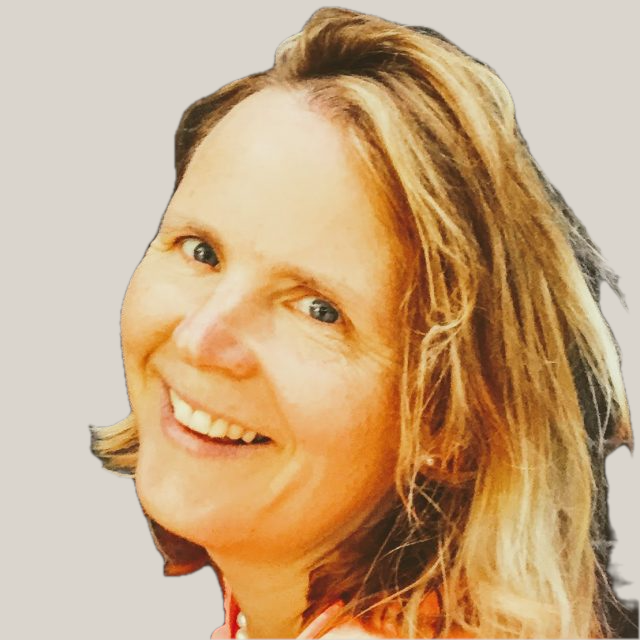
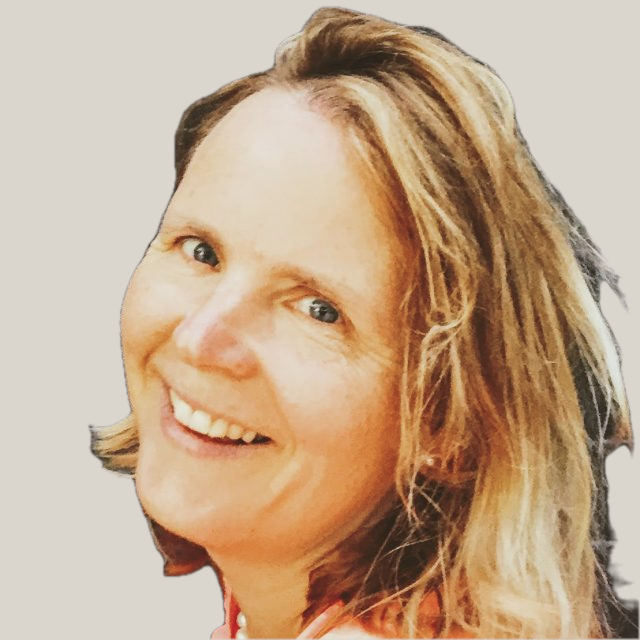
Style circular Board portraits and feature the Chair and Patron

diff --git a/board-portraits/index.html b/board-portraits/index.html
@@ -9,28 +9,47 @@
   <style>
     .portrait-grid {
       display: grid;
-      grid-template-columns: repeat(auto-fit, minmax(min(100%, 245px), 1fr));
-      gap: clamp(16px, 3vw, 30px);
-      max-width: 980px;
+      grid-template-columns: repeat(auto-fit, minmax(min(100%, 225px), 1fr));
+      gap: clamp(20px, 4vw, 44px);
+      text-align: center;
     }
-    .portrait-grid figure {
-      margin: 0;
-      border: 1px solid var(--crbf-panel-border);
-      border-radius: 6px;
-      overflow: hidden;
-      background: white;
+    .portrait-featured {
+      justify-content: center;
+      grid-template-columns: repeat(auto-fit, minmax(min(100%, 225px), 310px));
+      padding-bottom: clamp(26px, 4vw, 50px);
+      margin-bottom: clamp(26px, 4vw, 50px);
+      border-bottom: 1px solid var(--crbf-panel-border);
     }
+    .portrait-grid figure { margin: 0; }
     .portrait-grid img {
       display: block;
-      aspect-ratio: 1;
-      width: 100%;
+      width: min(100%, 176px);
       height: auto;
+      aspect-ratio: 1;
       object-fit: contain;
+      border-radius: 50%;
       background: #dad5cd;
+      margin-inline: auto;
     }
+    .portrait-featured img { width: min(100%, 208px); }
     .portrait-grid figcaption {
-      padding: .85rem 1rem 1rem;
-      font: 500 var(--crbf-card-title-size)/1.05 var(--font-cormorant), Georgia, serif;
+      padding: 1rem .25rem 0;
+      font: 500 var(--crbf-card-title-size)/1.1 var(--font-cormorant), Georgia, serif;
+    }
+    .portrait-role {
+      display: block;
+      margin-top: .45rem;
+      font: 700 .75rem/1.45 var(--font-manrope), Arial, sans-serif;
+      letter-spacing: .09em;
+      text-transform: uppercase;
+    }
+    .portrait-role::before {
+      content: "";
+      display: block;
+      width: 22px;
+      height: 1px;
+      margin: 0 auto .5rem;
+      background: var(--warm-gold);
     }
   </style>
 </head>
@@ -41,20 +60,23 @@
     <div>
       <p class="eyebrow">Cooper Rice-Brading Foundation</p>
       <h1>Board portrait preview</h1>
-      <p>Portraits from the public CRBF Board page with matching beige backgrounds.</p>
+      <p>The Foundation’s Chair, Patron and Board portraits.</p>
     </div>
   </section>
-  <section class="content-section" aria-label="Board portraits">
+  <section class="content-section" aria-label="Board and Patron portraits">
+    <div class="portrait-grid portrait-featured">
+      <figure><img src="/crbf-website-preview/images/board/trish-henry.png" width="640" height="640" alt="" decoding="async"><figcaption>The Honourable Trish Henry<span class="portrait-role">Chair</span></figcaption></figure>
+      <figure><img src="/crbf-website-preview/images/board/robert-beech-jones.png" width="213" height="237" alt="" decoding="async"><figcaption>The Honourable Robert Beech-Jones<span class="portrait-role">Patron</span></figcaption></figure>
+    </div>
     <div class="portrait-grid">
-      <figure><img src="/crbf-website-preview/images/board/trish-henry.png" width="640" height="640" alt="" decoding="async"><figcaption>The Honourable Trish Henry</figcaption></figure>
-      <figure><img src="/crbf-website-preview/images/board/colin-brading.png" width="640" height="640" alt="" decoding="async"><figcaption>Colin Brading</figcaption></figure>
-      <figure><img src="/crbf-website-preview/images/board/keith-cox.png" width="450" height="452" alt="" decoding="async"><figcaption>Keith Cox, OAM</figcaption></figure>
-      <figure><img src="/crbf-website-preview/images/board/kylie-bryant.png" width="200" height="200" alt="" decoding="async"><figcaption>Kylie Bryant</figcaption></figure>
-      <figure><img src="/crbf-website-preview/images/board/julie-robb.png" width="199" height="194" alt="" decoding="async"><figcaption>Julie Robb</figcaption></figure>
-      <figure><img src="/crbf-website-preview/images/board/neil-gibson.png" width="150" height="180" alt="" decoding="async"><figcaption>Neil Gibson</figcaption></figure>
-      <figure><img src="/crbf-website-preview/images/board/julian-hofer.png" width="640" height="640" alt="" decoding="async"><figcaption>Julian Hofer</figcaption></figure>
-      <figure><img src="/crbf-website-preview/images/board/heide-robson.png" width="640" height="640" alt="" decoding="async"><figcaption>Heide Robson</figcaption></figure>
-      <figure><img src="/crbf-website-preview/images/board/ross-mclean.png" width="640" height="640" alt="" decoding="async"><figcaption>Ross McLean</figcaption></figure>
+      <figure><img src="/crbf-website-preview/images/board/colin-brading.png" width="640" height="640" alt="" decoding="async"><figcaption>Colin Brading<span class="portrait-role">Company Secretary</span></figcaption></figure>
+      <figure><img src="/crbf-website-preview/images/board/keith-cox.png" width="450" height="452" alt="" decoding="async"><figcaption>Keith Cox, OAM<span class="portrait-role">Medical Advisory Director</span></figcaption></figure>
+      <figure><img src="/crbf-website-preview/images/board/kylie-bryant.png" width="200" height="200" alt="" decoding="async"><figcaption>Kylie Bryant<span class="portrait-role">Director, Government</span></figcaption></figure>
+      <figure><img src="/crbf-website-preview/images/board/julie-robb.png" width="199" height="194" alt="" decoding="async"><figcaption>Julie Robb<span class="portrait-role">Director</span></figcaption></figure>
+      <figure><img src="/crbf-website-preview/images/board/neil-gibson.png" width="150" height="180" alt="" decoding="async"><figcaption>Neil Gibson<span class="portrait-role">Director</span></figcaption></figure>
+      <figure><img src="/crbf-website-preview/images/board/julian-hofer.png" width="640" height="640" alt="" decoding="async"><figcaption>Julian Hofer<span class="portrait-role">Director, Philanthropic Engagement</span></figcaption></figure>
+      <figure><img src="/crbf-website-preview/images/board/heide-robson.png?v=toned" width="640" height="640" alt="" decoding="async"><figcaption>Heide Robson<span class="portrait-role">Finance Director</span></figcaption></figure>
+      <figure><img src="/crbf-website-preview/images/board/ross-mclean.png" width="640" height="640" alt="" decoding="async"><figcaption>Ross McLean<span class="portrait-role">Legal Director</span></figcaption></figure>
     </div>
   </section>
 </main>
